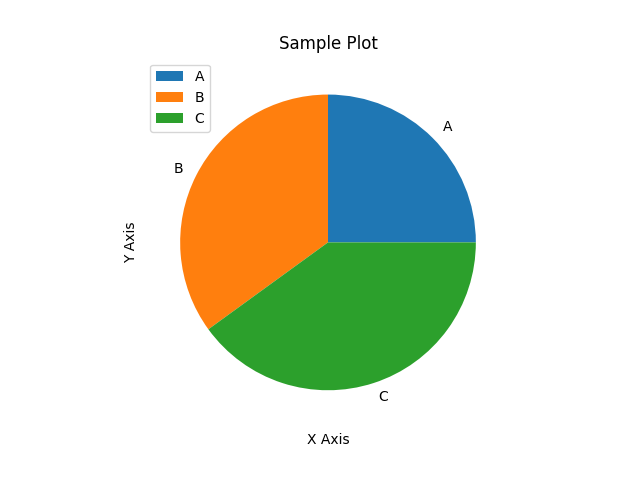
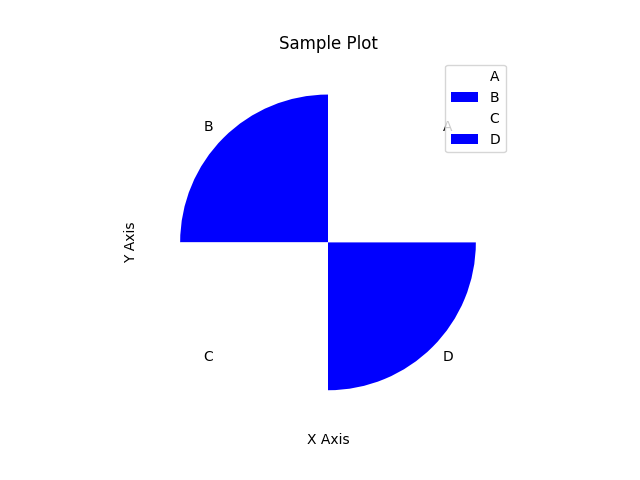
request methods are added

Changed region(s): [[0.2188, 0.125, 0.7812, 0.8438], [0.6875, 0.125, 0.7812, 0.2188]]

diff --git a/day5/data_science/p3.py b/day5/data_science/p3.py
@@ -96,23 +96,23 @@ x = [1, 2, 3, 4]
 y = [10, 20, 25, 30]
 
 # Line plot
-plt.plot(x, y, label="Line Plot")
+plt.plot(x,y, label="Line Plot")
 
 # Scatter
 plt.scatter(x, y, color='red', label="Scatter")
 
 # Bar plot
-plt.bar(x, y, label="Bar", alpha=0.5)
+#plt.barh(x, y, color="green", label="Bar", alpha=0.5 , )
 
 # Histogram
-plt.hist([1, 1, 2, 3, 3, 3, 4, 5, 5], bins=5, label="Histogram")
+plt.hist(x, bins=5, label="Histogram")
 
 # Boxplot
 plt.boxplot([[1, 2, 5], [2, 3, 4]])
 
 # Pie chart
 plt.figure()
-plt.pie([25, 35, 40], labels=["A", "B", "C"])
+plt.pie([25,25,25,25], labels=["A", "B", "C","D",], colors=['white','blue','white','blue'] )
 
 # Labels and Grid
 plt.title("Sample Plot")

diff --git a/day5/data_science/p7.py b/day5/data_science/p7.py
@@ -1,0 +1,26 @@
+import matplotlib.pyplot as plt
+
+# Data for three equal segments
+sizes = [1, 1, 1]
+colors = ['white', 'black', 'white']
+
+# Create figure and axis
+fig, ax = plt.subplots()
+
+# Plot pie chart with wedge properties for border line
+ax.pie(
+    sizes,
+    colors=colors,
+    startangle=90,  # Rotate to point upward
+    wedgeprops={'edgecolor': 'black', 'linewidth': 2}
+)
+
+# Draw circle around to simulate outer boundary
+centre_circle = plt.Circle((0, 0), 0.70, color='black', fill=False, linewidth=3)
+ax.add_artist(centre_circle)
+
+# Equal aspect ratio ensures the pie is drawn as a circle.
+ax.axis('equal')
+
+plt.title("Mercedes-Benz Style Pie")
+plt.show()

diff --git a/day5/data_science/p8/p1.py b/day5/data_science/p8/p1.py
@@ -1,0 +1,16 @@
+import requests
+
+#response=requests.get("https://api.github.com");
+
+#print(response.text);
+
+#print(response.json());
+
+#print(response.status_code)
+
+
+response=requests.delete("https://httpbin.org/delete");
+
+print(response.json());
+
+print(response.status_code)
